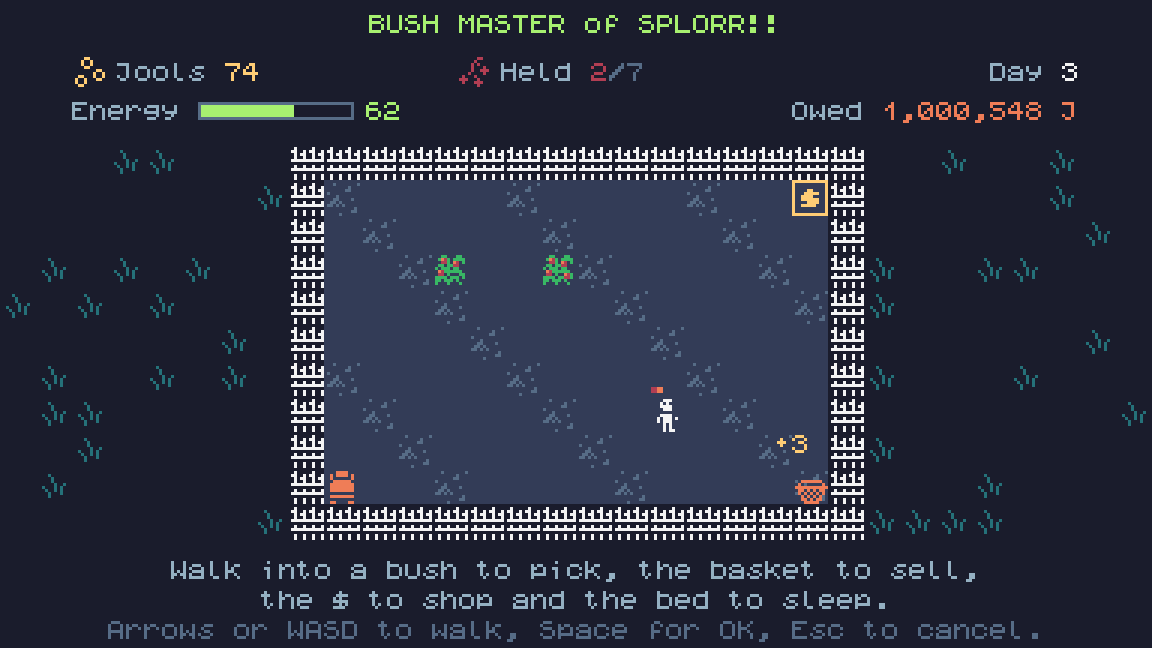
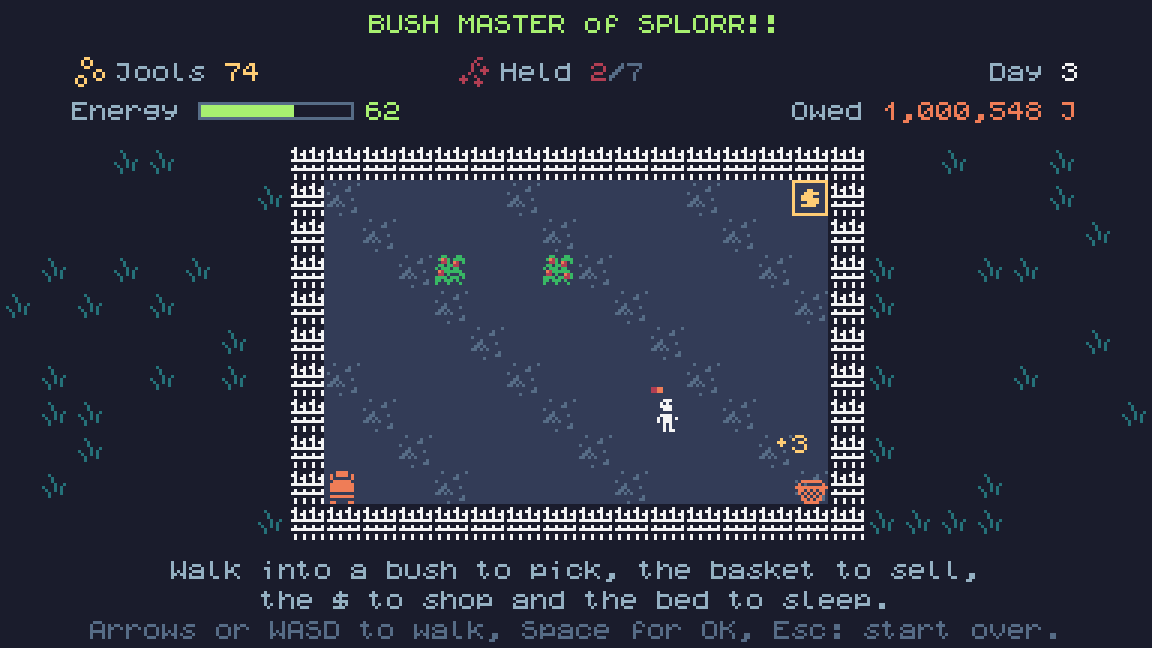
Start over from Esc, with a warning and a confirm
Esc on the plot opens a "START OVER?" panel listing what is lost; No is chosen first,
Space confirms, Esc backs out. A save never reopens the question.

Changed region(s): [[0.0625, 0.9568, 0.9062, 0.9877]]

diff --git a/CLAUDE.md b/CLAUDE.md
@@ -10,6 +10,8 @@ Numbers the brief did not give were picked by Claude for the first build and are
 
 **Controls (the user's rule, November 11, 2026): only arrows or WASD, Space for OK and Esc to cancel** (the gamepad's d-pad, A and B and the touch pads give the same six). No click-to-walk, no number keys, no extra buttons; keep it that way. (F for the feedback form is the vault's standing rule and stays.)
 
+**Starting over** (the user, November 12, 2026: a way to reset progress completely that warns of the consequence and needs a confirm). Esc on the plot (nothing else to cancel there) opens a red "START OVER?" panel saying what is lost; **No is chosen first**, Up/Down switch, Space confirms, Esc backs out. Yes runs `init_game`; the page then saves the fresh plot. A save never reopens the question. The footer's "Start over" link (a browser confirm) stays too.
+
 The shop (November 11, 2026, the user's request) is **a $ tile in the plot's top-right corner**: walk into it and a menu opens; Up/Down choose, Space buys (the menu stays open), Esc or the Leave row closes it. An earlier side panel with 1/2 keys and clickable rows was rejected by the user the same day. It sells **bigger hands** (+1 berry carried, dearer with each one), **more energy**, **stamina** (a slower idle drain), **a better price** (+1 jool a berry) and **a new bush** (planted bare in the next of eight fixed spots, dearer with each one). The better price was first reserved for a prestige metacurrency (November 11, 2026); **on November 12, 2026 the user dropped the prestige idea altogether** (the looming mortgage is the enemy, which they find funny) and put the better price in the shop. Do not add a prestige mechanic. Prices are Claude's placeholders, at the top of `src/game/shop.odin`: hands start at 10 jools and each costs 3/2 of the last (30 at most); stamina starts at 40 and costs 3/2 of the last (20 at most); the better price starts at 250 and doubles (20 at most); bushes start at 50 and double.
 
 **Energy, the bed and the mortgage** (November 11, 2026, the user's design; `src/game/home.odin`). Each berry picked and each trip to the basket costs energy (100 a day; 1 each, Claude's placeholders), and **standing still drains it, so energy is the day's clock** (the user, November 11, 2026; paused while the shop menu or a notice is up). On November 12, 2026 the user asked for it much slower and for the count to restart whenever energy is actually spent: now 1 every 10 seconds without a step, a pick or a basket trip (Claude's number), and the **Stamina** upgrade (the user's idea the same day) adds 2 seconds to that each, 20 at most. Walking and shopping are free. **The shop sells more energy** (the user's answer to the balance problem, November 11, 2026): +20 a day per upgrade, 30 jools then 6/5 of the last, 60 at most; it also tops up today. With too little energy the bush master cannot pick or sell and must go to bed: **the bed is in the plot's bottom-left corner**, walk into it to sleep. A night ends the day: energy and the bushes are full again, and the night's interest is added. **The mortgage is 1,000,000 jools at 10% a year, charged nightly as a 365th (rounded up) and compounding.** It is paid from the shop menu's "Pay mortgage" row, Left and Right choosing 10, 100, 1,000, 10,000, 100,000 or all. **Paying it to zero wins**: a "Paid off!" notice, then play goes on. The user's answers on November 11, 2026: interest 10% a year per night; pay from a shop row with a chosen amount; a growing balance has no penalty, paying it off wins; energy is spent on picks and deposits.

diff --git a/devlog/20261111/devlog.md b/devlog/20261111/devlog.md
@@ -21,3 +21,5 @@ The plot comes with a mortgage: 1,000,000 jools at 10% a year, charged a little 
 Energy is also the clock now: standing still wears it down, so the day ends whether you work or not. The shop sells more energy to make the days longer.
 
 November 12: standing still tires you much more slowly now (a point every 10 seconds), and picking or selling starts that count again. The shop also sells stamina, which slows it further, and a better price: each one adds a jool to every berry, and each costs twice the last.
+
+And a way out: press Esc on the plot to start over. It tells you plainly that everything goes, mortgage back to a million, and waits for a yes.

diff --git a/ITCH_DESCRIPTION.md b/ITCH_DESCRIPTION.md
@@ -25,7 +25,7 @@ Picking and selling wear you out, and so does standing about: the day only lasts
 - **Gamepad:** d-pad or left stick to walk, A for OK, B to cancel.
 - **Touch:** the pads beside the screen walk, OK and Back.
 
-Yer plot is saved in the browser as you play. "Start over" under the screen begins a fresh one.
+Yer plot is saved in the browser as you play. To begin a fresh one, press Esc on the plot (or B, or Back): it warns you that everything is forgotten and asks you to confirm. "Start over" under the screen does the same.
 
 ### About it
 
